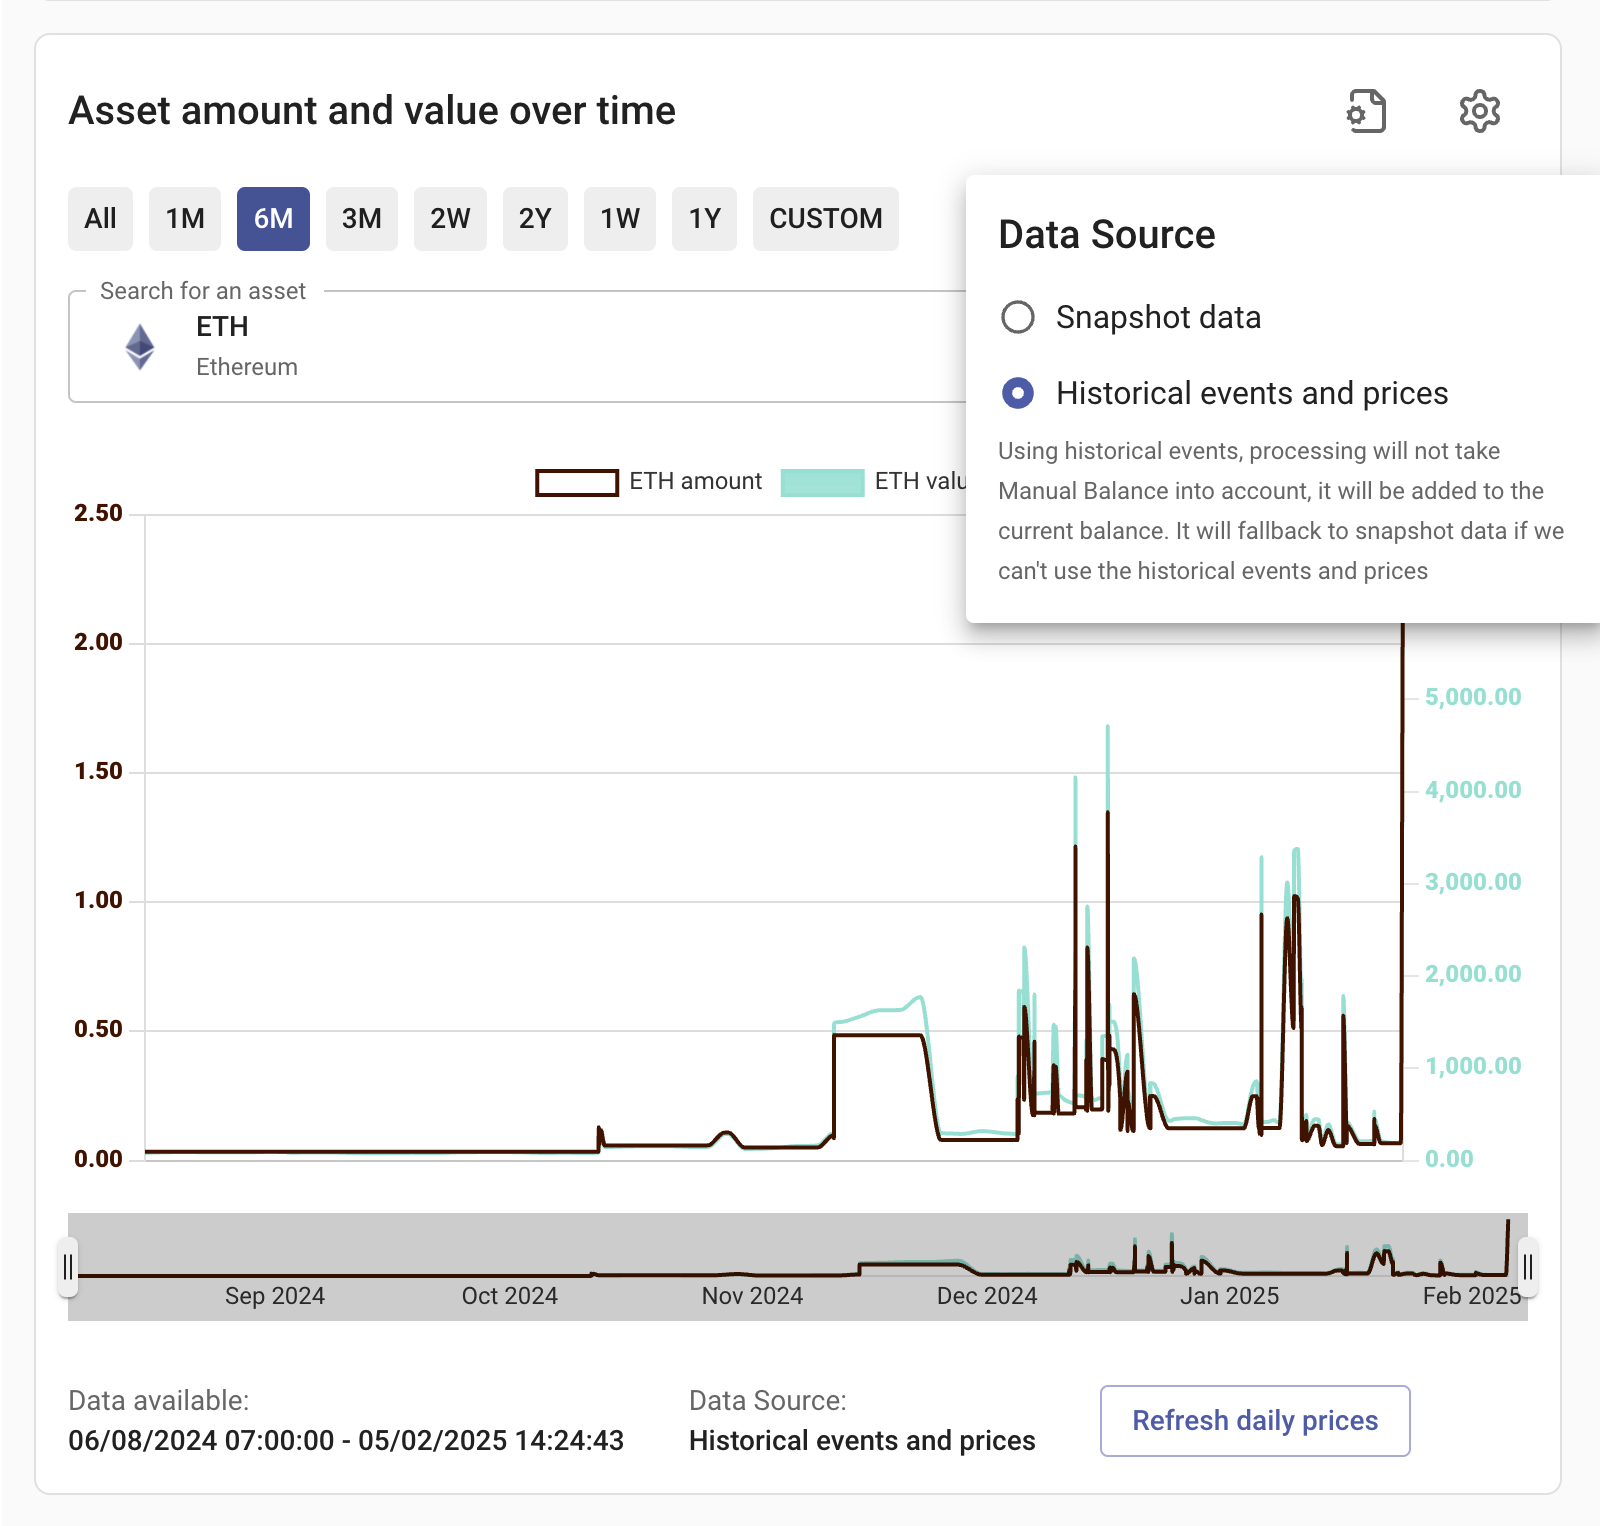
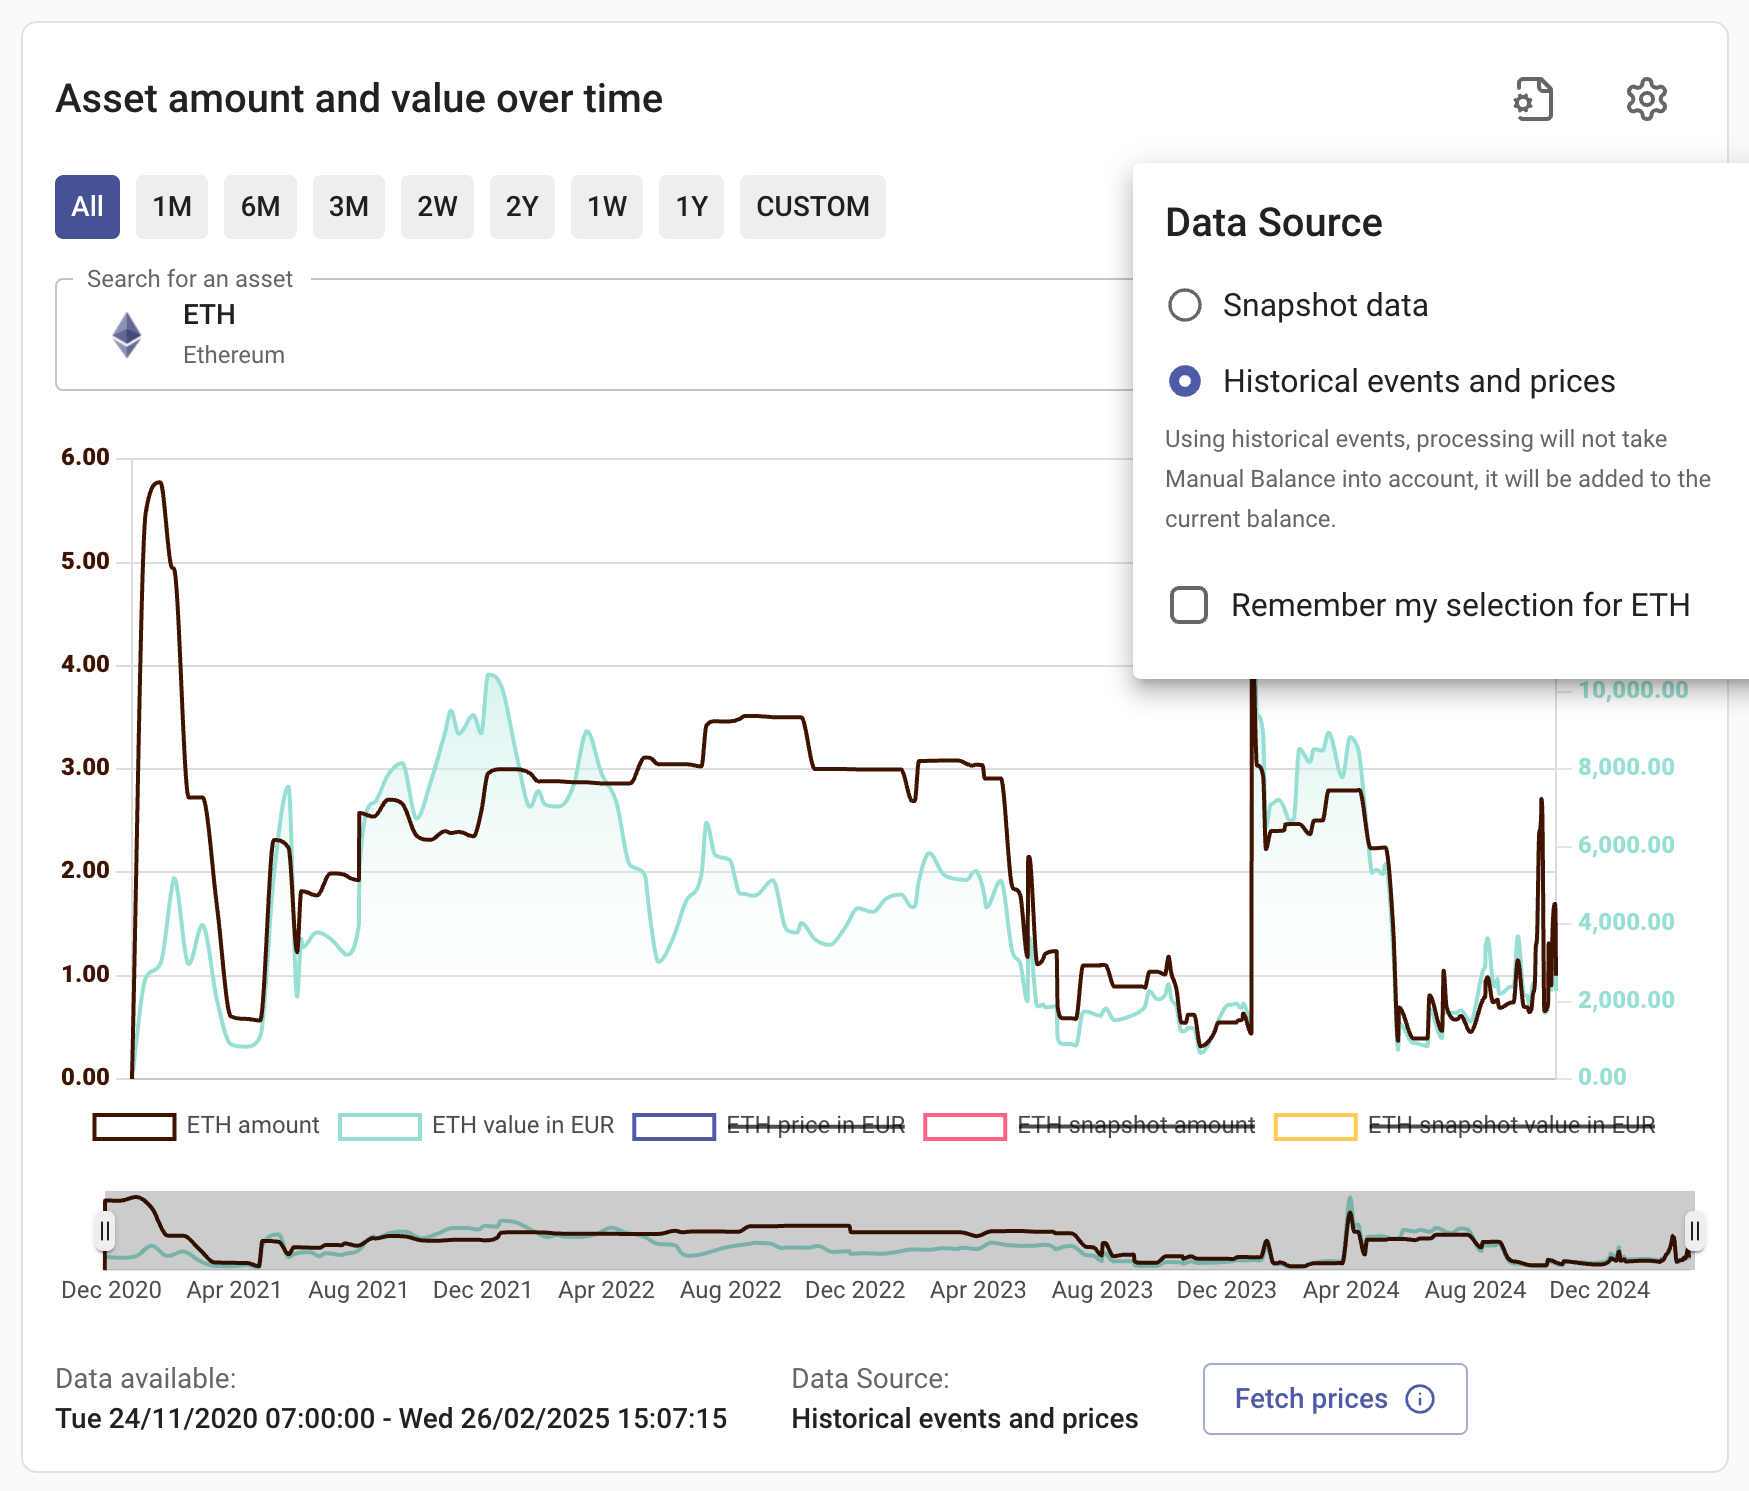
docs: update docs for 1.38

diff --git a/usage-guides/historical-events.md b/usage-guides/historical-events.md
@@ -1,6 +1,8 @@
 # Historical events
 
-## Adding manual trades
+## Exchange Trades
+
+### Adding manual trades
 
 rotki will pull all your trade history from the exchanges whenever it needs it. But most of us have probably also done some OTC trades or taxable events at some point. Such events could even just be mining tokens, depending on your jurisdiction, participating in an ICO or getting paid in crypto.
 
@@ -17,7 +19,7 @@ In the Trades page you can see a table of all your external trades. You can edit
 
 Currently rotki tracks your balance by querying the different supported protocols, exchanges and blockchains. If you manually add information about a trade your balances will not be updated since trades are not consulted when updating the accounts' balances. If you want to manually update your balance for an asset please refer to the [manual balances section](/usage-guides/accounts-and-balances.html#adding-manual-balances).
 
-## Filtering trades
+### Filtering trades
 
 rotki supports filtering your trades with a combination of filters. All of the filters are applied at the same time
 limiting the trades to the ones that satisfy all the applied filters.
@@ -49,26 +51,7 @@ You can select the checkbox on the left part of each entry and click `Ignore`/`U
 
 ![Ignore trades](/images/sc_history_trades_ignore.png)
 
-## Filtering deposits & withdrawals
-
-You can filter your deposits and withdrawals in the same way you can filter your trades.
-
-![Deposit filters](/images/sc_history_deposits_filter.png)
-
-For deposits you can use the following filters:
-
-- **asset:** the asset that was deposited or withdrawn.
-- **action:** the actions (withdrawal or deposit).
-- **start:** will only filter any trades from that date onwards.
-- **end:** will only filter any trades that happened before the selected date.
-- **location:** the location of the trade, e.g. kraken, uniswap etc.
-
-By default, all deposits/withdrawals will be processed in accounting, but you can ignore unwanted deposit/withdrawals, so they won't be processed.
-You can select the checkbox on the left part of each entry and click `Ignore`/`Unignore`.
-
-![Ignore deposits/withdrawals](/images/sc_history_deposits_ignore.png)
-
-## History events
+## History Events
 
 rotki is capable of pulling and decoding a bunch of different events, ranging from EVM chain transactions to exchanges events and more. When you visit the `History Events` section the process to obtain all the information will start. You will be able to check the status in an informative breakdown per blockchain address. Free users are limited to a number of latest events.
 

diff --git a/usage-guides/statistic.md b/usage-guides/statistic.md
@@ -26,13 +26,26 @@ All the assets graphs as well as the dashboard graph have the possibility of sel
 
 ![Zooming in the graphs](/images/zooming_in_graph.png)
 
-![Zooming in the graphs](/images/zooming_in_graph_statistics.png)
-
 ### Use historical events and prices
 
-By default, the asset amount and value use snapshot data, which is typically taken daily (depends on the setting). If you want to view more detailed data, you can use `historical events and prices`. Additionally, you can click `Refresh daily prices`, and rotki will attempt to populate the graph with daily prices, allowing you to observe price movements over time.
-
 ![Asset amount and value from historical events processing](/images/asset_amount_and_value_from_historical.png)
+
+By default, the asset amount and value use snapshot data, which is typically taken daily (depends on the setting). If you want to view more detailed data, you can use `Historical events and prices`.
+If you haven't fetched the prices before, some points might be hidden. You can click `Fetch prices`, and rotki will attempt to fetch the prices and also populate the graph with daily prices, allowing you to observe price movements over time.
+
+Additionally, you can `Remember your selection` for each asset. So when you reopen the graph for the asset, it will remember the source.
+
+### Mismatch between amount from historical events and current balance
+
+![Asset amount and value warning](/images/asset_amount_and_value_warning.png)
+
+Sometimes you might see this warning, if there is mismatch between amount at the last event with amount in current balance.
+Here are the possible reasons:
+
+1. The history events or the balances haven't fully loaded. If this is the case, you need to wait until all sources are queried.
+2. You have a manual balance that increases the amount, but you haven't specified the custom event to acquire the asset. Conversely, you have custom events (e.g., from a CSV import), but you haven't specified the manual balance.
+3. The asset is accruing value in staking or defi LPing but there is no event yet for this accrual.
+4. Some of your events are not properly decoded by rotki, or there may be missing events or there may be mistakes in the custom events you created.
 
 ## Value distribution by location
 

diff --git a/usage-guides/custom-price.md b/usage-guides/custom-price.md
@@ -1,9 +1,9 @@
 # Adding missing prices
 
-Sometimes rotki might be unable to retrieve prices for some assets. In order to always have the ability to show a price we provide two types of manual price additions: `Manage Prices → Latest Prices` and `Manage Prices → Historical Prices`.
+Sometimes rotki might be unable to retrieve prices for some assets. In order to always have the ability to show a price we provide two types of manual price additions in the menu `Manage Prices`:
 
-- Latest price: Will be the price displayed when we need to display the current price of an asset.
-- Historical price: The price used in a specific time in the past for an asset.
+- **Latest price**: Will be the price displayed when we need to display the current price of an asset.
+- **Historical price**: The price used in a specific time in the past for an asset.
 
 ![Price management](/images/price_management.png)
 

diff --git a/usage-guides/assets.md b/usage-guides/assets.md
@@ -1,4 +1,4 @@
-# Customization of the list of supported assets
+# Assets Management
 
 ## Inspecting list of assets
 
